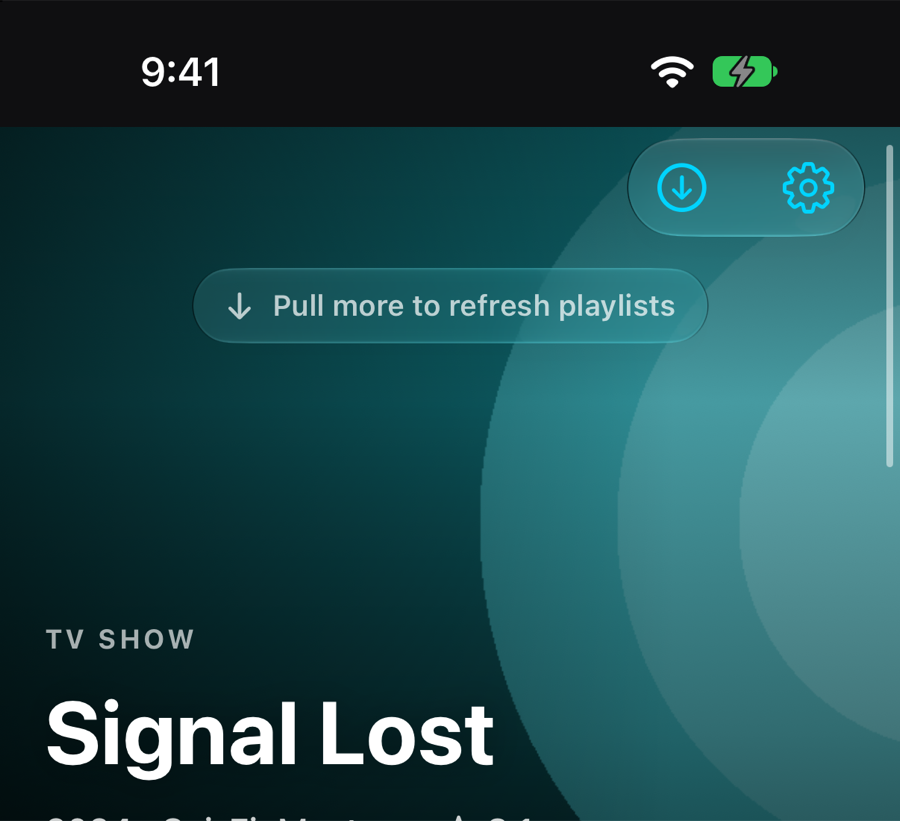
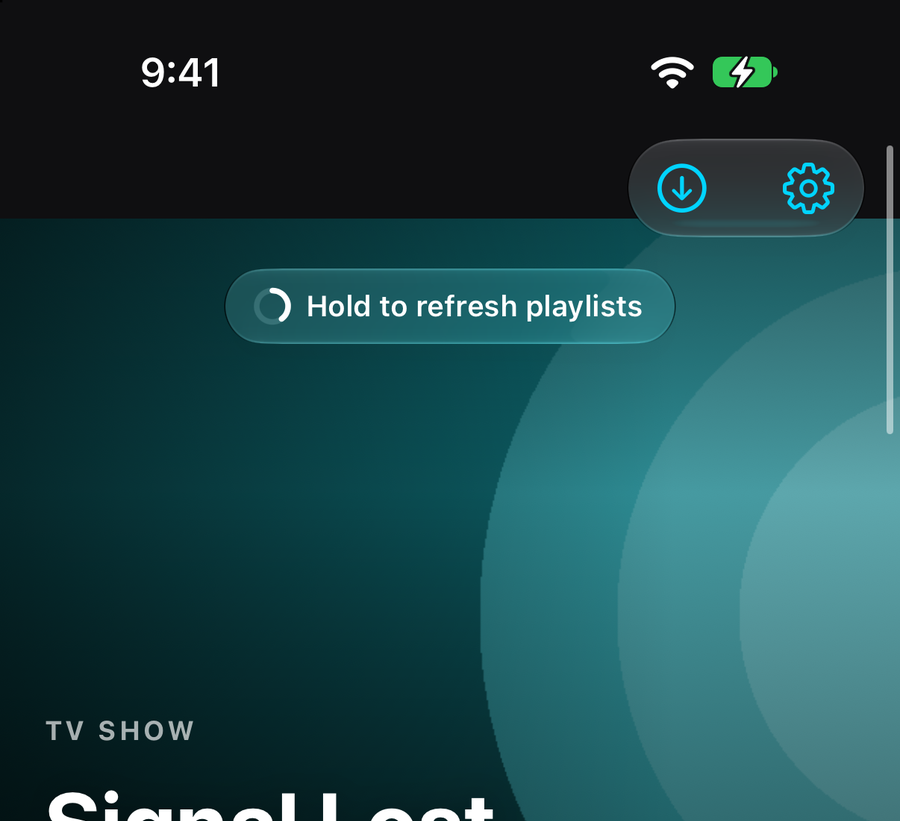
Pull to refresh: let go for one action, keep holding for the other
- Picking by distance (short pull: iCloud sync, long pull: refresh playlists) made quick deep pulls refresh every
  playlist by accident. Now letting go past the line runs the pull action, and holding the pull for a moment (a
  ring fills, with a haptic) arms the hold action; pulling back up cancels.
- Settings → Guide & Library (iPhone/iPad): what a pull does, what a held pull does (Sync with iCloud, Refresh
  playlists or Nothing) and how long to hold (1–5 s, default 2 s).
- New README picture of the hold hint; design and testing docs updated. Also moves a doc comment that had ended up
  on the wrong enum in Preferences.

diff --git a/Sources/Tuner/Support/PullToSync.swift b/Sources/Tuner/Support/PullToSync.swift
@@ -1,31 +1,33 @@
 import SwiftUI
 
 extension View {
-    /// iPhone/iPad: pull down and let go to sync with iCloud now; pull further to refresh the playlists from the
-    /// providers. Nothing on the Mac (Sync Now and the refresh button are in the window).
+    /// iPhone/iPad: pull down and let go for one action, or keep holding the pull for a moment for another (by default
+    /// sync with iCloud, and refresh the playlists from the providers; Settings → Guide & Library). Nothing on the Mac
+    /// (Sync Now and the refresh button are in the window).
     func pullToSync() -> some View {
         modifier(PullToSync())
     }
 }
 
-/// The system pull-to-refresh fires as soon as its threshold is crossed (before a longer pull can be told apart),
-/// so this follows the scroll offset and decides on release, from how far the list was pulled.
+/// The system pull-to-refresh fires as soon as its threshold is crossed, so this follows the scroll offset instead.
+/// Past `distance`, letting go runs the pull action; staying past it for `pullHoldSeconds` arms the hold action, so a
+/// quick, deep pull no longer refreshes every playlist by accident. Pulling back up before letting go cancels.
 private struct PullToSync: ViewModifier {
     #if os(iOS)
     @Environment(AppModel.self) private var model
     @ViewState private var pull: CGFloat = 0
     /// The scroll view's own top inset: 0 when the page runs under the status bar (Home's hero).
     @ViewState private var topInset: CGFloat = 1
-    @ViewState private var maxPull: CGFloat = 0
     @ViewState private var dragging = false
-    @ViewState private var working: Action?
+    /// When the pull went past `distance` (the hold is timed from here), and whether the hold has armed.
+    @ViewState private var heldSince: Date?
+    @ViewState private var holdArmed = false
+    @ViewState private var holdTimer: Task<Void, Never>?
+    @ViewState private var working: PullAction?
 
-    private static let syncDistance: CGFloat = 80
-    private static let refreshDistance: CGFloat = 170
-
-    private enum Action: Equatable {
-        case sync, refresh
-    }
+    private static let distance: CGFloat = 80
+    /// A little give once past the line, so a finger that sags while holding doesn't restart the hold.
+    private static let keepDistance: CGFloat = 60
 
     func body(content: Content) -> some View {
         content
@@ -36,73 +38,143 @@ private struct PullToSync: ViewModifier {
                 -(geometry.contentOffset.y + geometry.contentInsets.top)
             } action: { _, new in
                 pull = max(0, new)
-                if dragging { maxPull = max(maxPull, pull) }
+                if dragging { followHold() }
             }
             .onScrollPhaseChange { old, new in
                 if new == .interacting {
                     dragging = true
-                    maxPull = pull
+                    resetHold()
+                    followHold()
                 } else if old == .interacting {
                     dragging = false
-                    let action = action(for: maxPull)
-                    maxPull = 0
+                    let action = releaseAction
+                    resetHold()
                     if let action { run(action) }
                 }
             }
             .overlay(alignment: .top) { hint }
-            .sensoryFeedback(.selection, trigger: dragging ? action(for: maxPull) : nil)
+            .sensoryFeedback(.selection, trigger: heldSince != nil)
+            .sensoryFeedback(.impact(weight: .medium), trigger: holdArmed) { _, armed in armed }
     }
 
-    /// What letting go now would do.
-    private func action(for distance: CGFloat) -> Action? {
-        if distance >= Self.refreshDistance { return .refresh }
-        if distance >= Self.syncDistance, model.cloudSync.isEnabled { return .sync }
-        return nil
-    }
+    // MARK: - Hold
 
-    private func run(_ action: Action) {
+    private var pullAction: PullAction? { available(model.prefs.pullAction) }
+    private var holdAction: PullAction? { available(model.prefs.pullHoldAction) }
+
+    /// Nil for "Nothing", and for iCloud while sync is off.
+    private func available(_ action: PullAction) -> PullAction? {
         switch action {
-        case .sync: model.cloudSync.syncNow()
-        case .refresh: model.syncAll()
+        case .nothing: nil
+        case .syncICloud: model.cloudSync.isEnabled ? action : nil
+        case .refreshPlaylists: action
+        }
+    }
+
+    /// Starts timing the hold once the pull passes the line; going back above it starts over.
+    private func followHold() {
+        if heldSince == nil {
+            guard pull >= Self.distance else { return }
+            heldSince = Date()
+            guard holdAction != nil else { return }
+            let seconds = max(0.5, model.prefs.pullHoldSeconds)
+            holdTimer = Task { @MainActor in
+                try? await Task.sleep(for: .seconds(seconds))
+                guard !Task.isCancelled, dragging, heldSince != nil else { return }
+                withAnimation(.smooth(duration: 0.2)) { holdArmed = true }
+            }
+        } else if pull < Self.keepDistance {
+            resetHold()
+        }
+    }
+
+    private func resetHold() {
+        holdTimer?.cancel()
+        holdTimer = nil
+        heldSince = nil
+        holdArmed = false
+    }
+
+    /// What letting go now does: the hold action once armed, the pull action past the line, else nothing.
+    private var releaseAction: PullAction? {
+        guard heldSince != nil else { return nil }
+        return holdArmed ? holdAction : pullAction
+    }
+
+    private func run(_ action: PullAction) {
+        switch action {
+        case .syncICloud: model.cloudSync.syncNow()
+        case .refreshPlaylists: model.syncAll()
+        case .nothing: return
         }
         withAnimation(.smooth(duration: 0.2)) { working = action }
         Task { @MainActor in
             // Shown while it runs (at least briefly, so the pull is acknowledged).
             try? await Task.sleep(for: .seconds(1.2))
-            while action == .sync ? model.cloudSync.isSyncing : model.isSyncing {
+            while action == .syncICloud ? model.cloudSync.isSyncing : model.isSyncing {
                 try? await Task.sleep(for: .milliseconds(300))
             }
             withAnimation(.smooth(duration: 0.25)) { if working == action { working = nil } }
         }
     }
 
+    // MARK: - Hint
+
     @ViewBuilder
     private var hint: some View {
         if let working {
-            label(working == .sync ? "Syncing with iCloud…" : "Refreshing playlists…", symbol: nil)
-                .transition(.opacity.combined(with: .move(edge: .top)))
-        } else if dragging, pull > 24 {
-            let syncOn = model.cloudSync.isEnabled
-            switch action(for: maxPull) {
-            case .refresh:
-                label("Release to refresh playlists", symbol: "arrow.clockwise")
-            case .sync:
-                label("Release to sync · pull more to refresh playlists", symbol: "icloud")
-            case nil:
-                label(syncOn ? "Pull to sync with iCloud" : "Pull more to refresh playlists",
-                      symbol: syncOn ? "icloud" : "arrow.down")
-                    .opacity(min(1, Double(pull / Self.syncDistance)))
+            label(working == .syncICloud ? "Syncing with iCloud…" : "Refreshing playlists…") {
+                ProgressView().controlSize(.small)
+            }
+            .transition(.opacity.combined(with: .move(edge: .top)))
+        } else if dragging, pull > 24, pullAction != nil || holdAction != nil {
+            if holdArmed, let holdAction {
+                label("Release to \(Self.verb(holdAction))") { icon(holdAction) }
+            } else if let heldSince {
+                label(pastLineText) {
+                    if holdAction != nil {
+                        HoldRing(since: heldSince, seconds: max(0.5, model.prefs.pullHoldSeconds))
+                    } else if let pullAction {
+                        icon(pullAction)
+                    }
+                }
+            } else {
+                label(beforeLineText) { Image(systemName: "arrow.down") }
+                    .opacity(min(1, Double(pull / Self.distance)))
             }
         }
     }
 
-    private func label(_ text: String, symbol: String?) -> some View {
+    private var beforeLineText: String {
+        if let pullAction { return "Pull to \(Self.verb(pullAction))" }
+        return "Pull and hold to \(Self.verb(holdAction ?? .refreshPlaylists))"
+    }
+
+    private var pastLineText: String {
+        switch (pullAction, holdAction) {
+        case let (pull?, hold?): "Release to \(Self.verb(pull)) · hold to \(Self.verb(hold))"
+        case let (pull?, nil): "Release to \(Self.verb(pull))"
+        case let (nil, hold?): "Hold to \(Self.verb(hold))"
+        case (nil, nil): ""
+        }
+    }
+
+    private static func verb(_ action: PullAction) -> String {
+        switch action {
+        case .syncICloud: "sync with iCloud"
+        case .refreshPlaylists: "refresh playlists"
+        case .nothing: ""
+        }
+    }
+
+    private func icon(_ action: PullAction) -> some View {
+        Image(systemName: action == .syncICloud ? "icloud" : "arrow.clockwise")
+            .font(.footnote.weight(.semibold))
+    }
+
+    private func label<Icon: View>(_ text: String, @ViewBuilder icon: () -> Icon) -> some View {
         HStack(spacing: 8) {
-            if let symbol {
-                Image(systemName: symbol).font(.footnote.weight(.semibold))
-            } else {
-                ProgressView().controlSize(.small)
-            }
+            icon()
             Text(text).font(.footnote.weight(.semibold))
         }
         .padding(.horizontal, 14)
@@ -112,6 +184,7 @@ private struct PullToSync: ViewModifier {
         .padding(.top, topInset < 1 ? Self.windowTopInset + 58 : 6)
         .allowsHitTesting(false)
     }
+
     private static var windowTopInset: CGFloat {
         UIApplication.shared.connectedScenes.compactMap { $0 as? UIWindowScene }
             .flatMap(\.windows).first(where: \.isKeyWindow)?.safeAreaInsets.top ?? 59
@@ -120,3 +193,25 @@ private struct PullToSync: ViewModifier {
     func body(content: Content) -> some View { content }
     #endif
 }
+
+#if os(iOS)
+/// Fills as the hold time passes.
+private struct HoldRing: View {
+    let since: Date
+    let seconds: Double
+
+    var body: some View {
+        TimelineView(.animation) { context in
+            let progress = min(1, context.date.timeIntervalSince(since) / seconds)
+            ZStack {
+                Circle().stroke(.secondary.opacity(0.35), lineWidth: 2.5)
+                Circle()
+                    .trim(from: 0, to: progress)
+                    .stroke(.primary, style: StrokeStyle(lineWidth: 2.5, lineCap: .round))
+                    .rotationEffect(.degrees(-90))
+            }
+            .frame(width: 14, height: 14)
+        }
+    }
+}
+#endif

diff --git a/Sources/Tuner/App/Preferences.swift b/Sources/Tuner/App/Preferences.swift
@@ -17,7 +17,6 @@ enum EngineChoice: String, CaseIterable, Identifiable, Codable {
     }
 }
 
-/// How episode cards show their picture (episode stills can spoil plot points).
 /// Where the player shows the stream's download speed (Settings → Playback).
 enum StreamSpeedDisplay: String, CaseIterable, Identifiable, Codable {
     /// Always on screen, also while the player's buttons are hidden.
@@ -36,6 +35,24 @@ enum StreamSpeedDisplay: String, CaseIterable, Identifiable, Codable {
     }
 }
 
+/// What pulling down a page does on iPhone/iPad (a pull, or a pull held for `pullHoldSeconds`; Settings → Guide &
+/// Library).
+enum PullAction: String, CaseIterable, Identifiable, Codable {
+    case syncICloud
+    case refreshPlaylists
+    case nothing
+
+    var id: String { rawValue }
+    var title: String {
+        switch self {
+        case .syncICloud: "Sync with iCloud"
+        case .refreshPlaylists: "Refresh playlists"
+        case .nothing: "Nothing"
+        }
+    }
+}
+
+/// How episode cards show their picture (episode stills can spoil plot points).
 enum EpisodeThumbnailStyle: String, CaseIterable, Identifiable, Codable {
     /// The episode's own still (provider image, else online metadata), like the TV app.
     case show
@@ -92,6 +109,10 @@ final class Preferences {
     var autoplayNextEpisode: Bool { didSet { set(autoplayNextEpisode, "autoplayNextEpisode") } }
     /// The stream's current download speed in the player.
     var streamSpeedDisplay: StreamSpeedDisplay { didSet { set(streamSpeedDisplay.rawValue, "streamSpeedDisplay") } }
+    /// iPhone/iPad pull to refresh: a pull, and a pull held at the bottom for `pullHoldSeconds`.
+    var pullAction: PullAction { didSet { set(pullAction.rawValue, "pullAction") } }
+    var pullHoldAction: PullAction { didSet { set(pullHoldAction.rawValue, "pullHoldAction") } }
+    var pullHoldSeconds: Double { didSet { set(pullHoldSeconds, "pullHoldSeconds") } }
     /// Seconds the "Up Next" card counts down before the next episode starts; 0 = no card (starts right away).
     var upNextCountdown: Int { didSet { set(upNextCountdown, "upNextCountdown") } }
     var volume: Double { didSet { set(volume, "volume") } }
@@ -185,6 +206,9 @@ final class Preferences {
         resumePlayback = v("resumePlayback", true)
         autoplayNextEpisode = v("autoplayNextEpisode", true)
         streamSpeedDisplay = StreamSpeedDisplay(rawValue: v("streamSpeedDisplay", "")) ?? .withControls
+        pullAction = PullAction(rawValue: v("pullAction", "")) ?? .syncICloud
+        pullHoldAction = PullAction(rawValue: v("pullHoldAction", "")) ?? .refreshPlaylists
+        pullHoldSeconds = v("pullHoldSeconds", 2.0)
         upNextCountdown = v("upNextCountdown", 10)
         volume = v("volume", 100.0)
         catchupPaddingMinutes = v("catchupPaddingMinutes", 0)

diff --git a/Sources/Tuner/Views/Settings/SettingsPanes.swift b/Sources/Tuner/Views/Settings/SettingsPanes.swift
@@ -165,8 +165,33 @@ struct SettingsGuidePane: View {
             } header: {
                 Text("Automatic Refresh")
             } footer: {
+                #if os(macOS)
                 SettingsFooter("Playlists can override these in their own settings. Refresh any time with ⌘R.")
+                #else
+                SettingsFooter("Playlists can override these in their own settings.")
+                #endif
             }
+
+            #if os(iOS)
+            Section {
+                Picker("Pull and let go", selection: $prefs.pullAction) {
+                    ForEach(PullAction.allCases) { Text($0.title).tag($0) }
+                }
+                Picker("Pull and hold", selection: $prefs.pullHoldAction) {
+                    ForEach(PullAction.allCases) { Text($0.title).tag($0) }
+                }
+                Picker("Hold for", selection: $prefs.pullHoldSeconds) {
+                    ForEach([1.0, 1.5, 2, 3, 4, 5], id: \.self) { seconds in
+                        Text(seconds == 1 ? "1 second" : "\(seconds.formatted()) seconds").tag(seconds)
+                    }
+                }
+                .disabled(prefs.pullHoldAction == .nothing)
+            } header: {
+                Text("Pull to Refresh")
+            } footer: {
+                SettingsFooter("Pull down on Home, Movies, TV Shows or Live TV. Keep holding the pull for the second action; pull back up to cancel.")
+            }
+            #endif
 
             Section("Reminders") {
                 Picker("Remind me", selection: $prefs.reminderLeadMinutes) {

diff --git a/README.md b/README.md
@@ -30,7 +30,7 @@ A native IPTV player for **Mac, iPhone and iPad** with an Apple TV app–style e
 | ![iPhone player in landscape](docs/media/18-iphone-player-landscape.png) | ![Top 10 rows](docs/media/19-top10.png) |
 | **Mark a season or show as watched** | **iCloud Sync (iPhone)** |
 | ![Season menu](docs/media/20-season-watched.png) | ![iCloud Sync settings](docs/media/21-icloud-sync.png) |
-| **Up Next on Home** | **Pull down to sync or refresh (iPhone)** |
+| **Up Next on Home** | **Pull to sync, pull and hold to refresh (iPhone)** |
 | ![Up Next row](docs/media/22-up-next.png) | ![Pull to refresh hint](docs/media/23-pull-to-sync.png) |
 | **Skip Intro** | **Dialogue Boost, Night Mode, Volume Levelling** |
 | ![Skip Intro button](docs/media/24-skip-intro.png) | ![Audio settings](docs/media/25-audio-settings.png) |
@@ -161,7 +161,7 @@ devices from Xcode, with a free Apple ID or a paid developer account.
 | Navigation | Sidebar | Tab bar (iPad: top bar that opens as a sidebar) |
 | Live TV | Guide grid with preview | iPhone: channel list with now/next; iPad: guide grid |
 | Player | Pointer-driven control panel, keyboard shortcuts | TV app–style touch layout (portrait and landscape): transport on the video, title and timeline below, Episodes / Next Episode pills; tap to show/hide, double-tap the sides to skip 10 s, swipe up for landscape, swipe down for portrait or to close; hardware volume |
-| Refresh | Toolbar / ⌘R | Pull down on Home, Movies, TV Shows or Live TV: a short pull syncs with iCloud, a longer pull refreshes the playlists |
+| Refresh | Toolbar / ⌘R | Pull down on Home, Movies, TV Shows or Live TV and let go to sync with iCloud; keep holding the pull (2 s) to refresh the playlists. Both actions and the hold time are in Settings → Guide & Library |
 | Engines | AVFoundation, libmpv (Homebrew) fallback | AVFoundation, libmpv ([MPVKit](https://github.com/mpvkit/MPVKit)) fallback, built in |
 | Picture in Picture | AVFoundation streams | AVFoundation streams (MKV and other mpv-only formats: no PiP) |
 | AirPlay | All formats (ffmpeg re-wraps the rest) | AVFoundation streams; others via Screen Mirroring |

diff --git a/docs/design.md b/docs/design.md
@@ -258,6 +258,16 @@ placeholder flash when scrolling back); bytes go to `ImageDiskCache` (TunerCore,
 file names are SHA-256 of the URL) whatever the server's caching headers say; decoding uses ImageIO's thumbnail
 path off the main thread, sized to the view. One request per URL is shared by every view asking for it.
 
+### Pull to refresh (iPhone/iPad, `PullToSync`)
+
+- The system `refreshable` fires the moment its threshold is crossed, so it can't offer two actions. `PullToSync`
+  follows the scroll offset instead. Past 80 pt, letting go runs the pull action; staying past it (60 pt of give)
+  for the hold time arms the hold action, with a filling ring and a haptic. Pulling back up cancels.
+- It used to pick by distance (80 pt sync, 170 pt refresh), and quick deep pulls kept refreshing every playlist by
+  accident; time can't be hit by accident.
+- Settings → Guide & Library (iOS only, not synced): pull action and hold action (Sync with iCloud, Refresh
+  playlists, Nothing) and hold time (1–5 s, default 2 s). iCloud counts as Nothing while sync is off.
+
 ### Sync between devices (iCloud Drive folder)
 
 **Why not CloudKit:** the iPhone app is signed with a free Personal Team and the Mac app is ad-hoc/Developer ID signed

diff --git a/docs/testing.md b/docs/testing.md
@@ -353,6 +353,13 @@ the `PlayerSlot` log (`… --info --predicate 'category == "PlayerSlot"'`) says 
 `Continued mv:… from the kept-warm stream`. Play something else instead, or wait 2 minutes, and it logs
 `Closed the kept-warm …`. Live channels, local files and PiP/AirPlay playback are never kept.
 
+## Pull to refresh (iPhone/iPad)
+
+In the simulator, drive it with the simulator tool's `touch_path`, starting below Home's hero (the hero carousel
+takes the drag): a quick deep pull and release must not refresh (no `player_api.php` requests in the test kit log),
+and a pull held for the hold time must (`get_live_streams` and friends appear). Grab the hint with
+`xcrun simctl io booted screenshot` in a loop while the touch runs.
+
 ## Testing iCloud sync
 
 Sync only needs a folder both copies can read and write, so tests use a plain scratch folder instead of iCloud Drive
